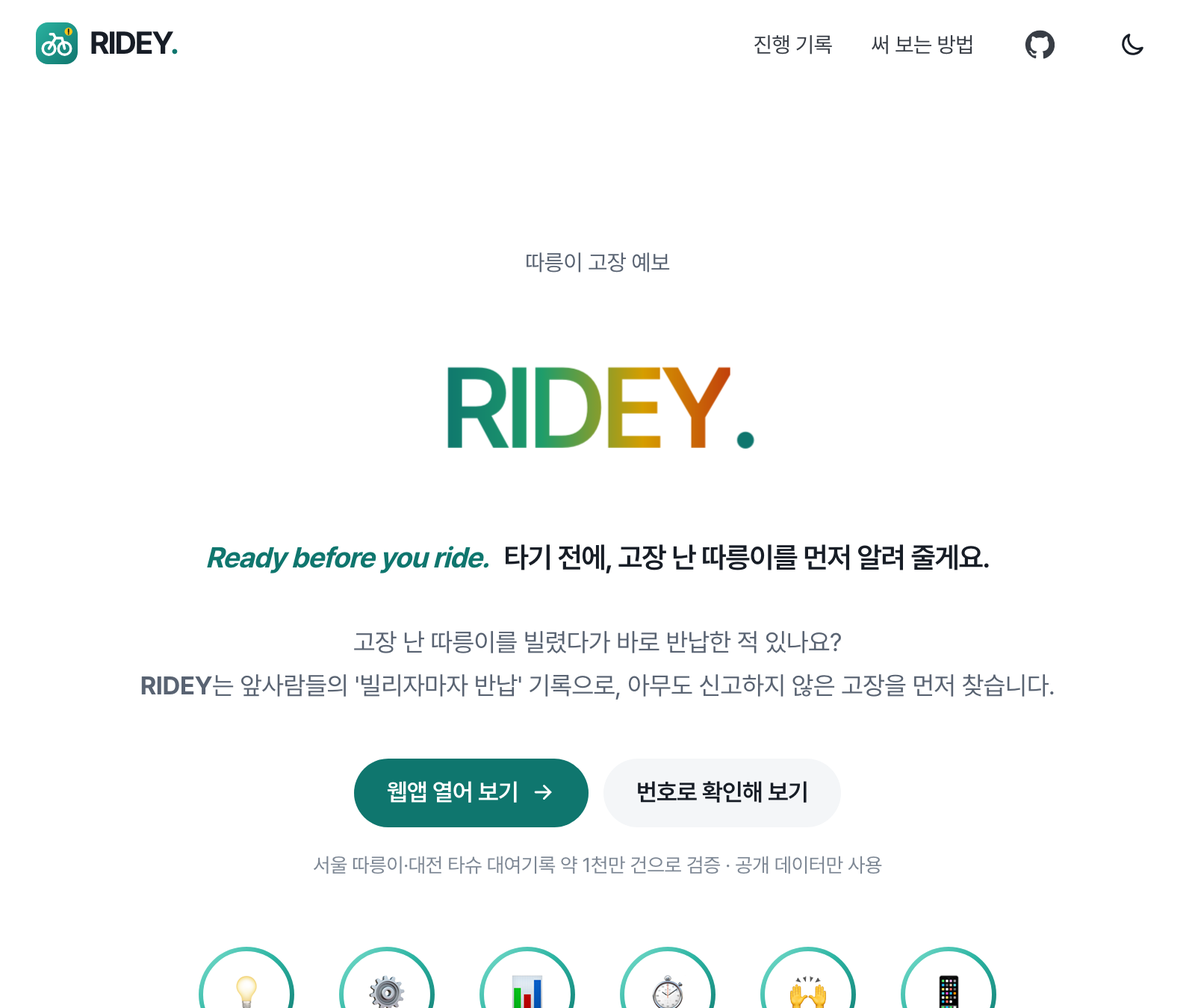
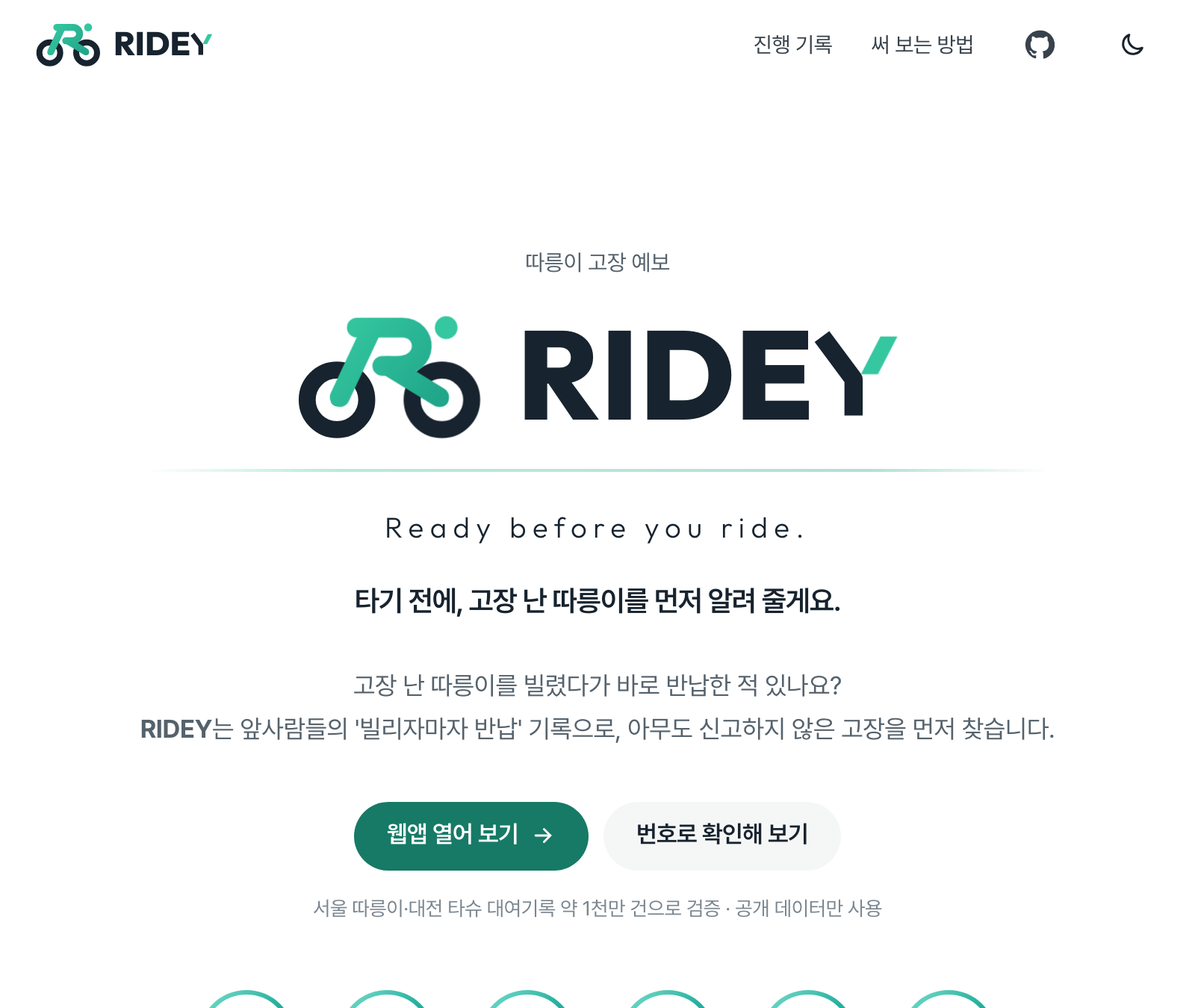
사이트를 로고 초안에 맞춤: 색(민트 #35C7A0·청록 #20A68A·남색 #17232E, 글자·단추는 대비 위해 #167A66), 글꼴 Outfit(영어)+Pretendard(한글), 자전거 R 마크·RIDEY 글자(Y 의 민트 체크) 로고, 어두운 화면은 흰 바퀴. 첫 화면: 자전거가 달려와 서고 그 힘에 R·I·D·E·Y 가 튀어나와 자리 잡고 체크가 그어진 뒤 'Ready before you ride.' 타자

diff --git a/site/index.html b/site/index.html
@@ -8,16 +8,18 @@
 <meta property="og:title" content="RIDEY — Ready before you ride">
 <meta property="og:url" content="https://zmflm0110.github.io/ridey/">
 <meta property="og:description" content="앞사람들의 '빌리자마자 반납' 기록으로, 신고되지 않은 고장 자전거를 실시간으로 찾습니다.">
-<meta name="theme-color" content="#ffffff">
-<link rel="icon" href="app/icon.svg" type="image/svg+xml">
+<meta name="theme-color" content="#F5F7F6">
+<link rel="icon" href="img/mark.svg" type="image/svg+xml">
 <link rel="stylesheet" href="https://cdn.jsdelivr.net/gh/orioncactus/pretendard/dist/web/variable/pretendardvariable-dynamic-subset.css">
+<link rel="preconnect" href="https://fonts.googleapis.com"><link rel="preconnect" href="https://fonts.gstatic.com" crossorigin>
+<link rel="stylesheet" href="https://fonts.googleapis.com/css2?family=Outfit:wght@300;400;600;800&display=swap">
 <link rel="stylesheet" href="style.css">
 </head>
 <body>
 
 <header class="top" id="top">
   <div class="wrap">
-    <a class="logo" href="./" aria-label="RIDEY 처음으로"><img src="app/icon.svg" alt="" width="28" height="28"><span>RIDEY<i>.</i></span></a>
+    <a class="logo" href="./" aria-label="RIDEY 처음으로"><svg class="mark-sm" viewBox="0 0 132 92" aria-hidden="true"><defs><linearGradient id="rgHead" gradientUnits="userSpaceOnUse" x1="34" y1="8" x2="100" y2="64"><stop offset="0" stop-color="#35C7A0"/><stop offset="1" stop-color="#20A68A"/></linearGradient></defs><g class="wheel wheel-back"><circle class="ring" cx="28" cy="64" r="21" fill="none" stroke="#17232E" stroke-width="12"/><circle cx="28" cy="64" r="4.5" fill="#20A68A"/></g><g class="wheel wheel-front"><circle class="ring" cx="102" cy="64" r="21" fill="none" stroke="#17232E" stroke-width="12"/><circle cx="102" cy="64" r="4.5" fill="#20A68A"/></g><g class="rider" fill="none" stroke="url(#rgHead)" stroke-linecap="round" stroke-linejoin="round" stroke-width="14"><path d="M42 13 H74 C92 13 94 40 70 40 H60"/><path d="M52 15 L30 62"/><path d="M64 40 L100 62"/></g><circle class="head" cx="105" cy="13" r="8" fill="#35C7A0"/></svg><span class="wordmark">RIDE<svg class="ly" viewBox="0 0 66 70" aria-hidden="true"><path d="M4 3 L30 38 V68" fill="none" stroke="currentColor" stroke-width="15" stroke-linejoin="round"/><path class="tick" d="M36 34 L50 34 L66 3 L52 3 Z" fill="#35C7A0"/></svg></span></a>
     <nav class="links" aria-label="주요 메뉴">
       <a href="#why" class="hide-sm">왜 만들었나</a>
       <a href="#results" class="hide-sm">검증 결과</a>
@@ -37,11 +39,28 @@
   <section class="hero">
     <div class="wrap">
       <p class="eyebrow">따릉이 고장 예보</p>
-      <h1 class="brand" id="brand" aria-label="빌리기 전에, 준비. Ready before you ride. RIDEY." title="다시 보기">
-        <span class="lines" aria-hidden="true"><span class="l1" id="l1"></span><br><span class="l2" id="l2"></span><span class="caret" id="caret"></span></span>
-        <span class="ridey" id="ridey" lang="en" aria-hidden="true"></span>
+      <h1 class="brand" id="brand" aria-label="RIDEY — Ready before you ride." title="다시 보기">
+        <span class="lockup" aria-hidden="true">
+          <span class="speed" id="speed"><i></i><i></i><i></i></span>
+          <svg class="mark" id="mark" viewBox="0 0 132 92" aria-hidden="true">
+  <defs>
+    <linearGradient id="rgHero" gradientUnits="userSpaceOnUse" x1="34" y1="8" x2="100" y2="64"><stop offset="0" stop-color="#35C7A0"/><stop offset="1" stop-color="#20A68A"/></linearGradient>
+  </defs>
+  <g class="wheel wheel-back"><circle class="ring" cx="28" cy="64" r="21" fill="none" stroke="#17232E" stroke-width="12"/><circle cx="28" cy="64" r="4.5" fill="#20A68A"/><circle class="spin" cx="28" cy="64" r="21" fill="none" stroke="#35C7A0" stroke-width="3" stroke-dasharray="6 10"/></g>
+  <g class="wheel wheel-front"><circle class="ring" cx="102" cy="64" r="21" fill="none" stroke="#17232E" stroke-width="12"/><circle cx="102" cy="64" r="4.5" fill="#20A68A"/><circle class="spin" cx="102" cy="64" r="21" fill="none" stroke="#35C7A0" stroke-width="3" stroke-dasharray="6 10"/></g>
+  <g class="rider" fill="none" stroke="url(#rgHero)" stroke-linecap="round" stroke-linejoin="round" stroke-width="14">
+    <path d="M42 13 H74 C92 13 94 40 70 40 H60"/>
+    <path d="M52 15 L30 62"/>
+    <path d="M64 40 L100 62"/>
+  </g>
+  <circle class="head" cx="105" cy="13" r="8" fill="#35C7A0"/>
+</svg>
+          <span class="word" id="word"><span class="lt">R</span><span class="lt">I</span><span class="lt">D</span><span class="lt">E</span><span class="lt"><svg class="ly" viewBox="0 0 66 70" aria-hidden="true"><path d="M4 3 L30 38 V68" fill="none" stroke="currentColor" stroke-width="15" stroke-linejoin="round"/><path class="tick" d="M36 34 L50 34 L66 3 L52 3 Z" fill="#35C7A0"/></svg></span></span>
+        </span>
+        <span class="road" id="road" aria-hidden="true"></span>
       </h1>
-      <p class="motto-ko"><i lang="en">Ready before you ride.</i> 타기 전에, 고장 난 따릉이를 먼저 알려 줄게요.</p>
+      <p class="tagline" lang="en" aria-hidden="true"><span id="tagline"></span><span class="tcaret" id="tcaret"></span></p>
+      <p class="motto-ko">타기 전에, 고장 난 따릉이를 먼저 알려 줄게요.</p>
       <p class="lede">고장 난 따릉이를 빌렸다가 바로 반납한 적 있나요?<br><b>RIDEY</b>는 앞사람들의 '빌리자마자 반납' 기록으로, 아무도 신고하지 않은 고장을 먼저 찾습니다.</p>
       <div class="cta">
         <a class="btn primary" href="app/">웹앱 열어 보기
@@ -392,7 +411,7 @@
 
 <footer>
   <div class="wrap">
-    <a class="logo" href="#top"><img src="app/icon.svg" alt="" width="28" height="28"><span>RIDEY<i>.</i></span></a>
+    <a class="logo" href="#top"><svg class="mark-sm" viewBox="0 0 132 92" aria-hidden="true"><defs><linearGradient id="rgFoot" gradientUnits="userSpaceOnUse" x1="34" y1="8" x2="100" y2="64"><stop offset="0" stop-color="#35C7A0"/><stop offset="1" stop-color="#20A68A"/></linearGradient></defs><g class="wheel wheel-back"><circle class="ring" cx="28" cy="64" r="21" fill="none" stroke="#17232E" stroke-width="12"/><circle cx="28" cy="64" r="4.5" fill="#20A68A"/></g><g class="wheel wheel-front"><circle class="ring" cx="102" cy="64" r="21" fill="none" stroke="#17232E" stroke-width="12"/><circle cx="102" cy="64" r="4.5" fill="#20A68A"/></g><g class="rider" fill="none" stroke="url(#rgFoot)" stroke-linecap="round" stroke-linejoin="round" stroke-width="14"><path d="M42 13 H74 C92 13 94 40 70 40 H60"/><path d="M52 15 L30 62"/><path d="M64 40 L100 62"/></g><circle class="head" cx="105" cy="13" r="8" fill="#35C7A0"/></svg><span class="wordmark">RIDE<svg class="ly" viewBox="0 0 66 70" aria-hidden="true"><path d="M4 3 L30 38 V68" fill="none" stroke="currentColor" stroke-width="15" stroke-linejoin="round"/><path class="tick" d="M36 34 L50 34 L66 3 L52 3 Z" fill="#35C7A0"/></svg></span></a>
     <p>자료: 서울 열린데이터광장·공공데이터포털 (공공누리 제1유형) · 코드: <a href="https://github.com/zmflm0110/ridey">GitHub</a></p>
   </div>
 </footer>
@@ -414,95 +433,66 @@
   });
   addEventListener("scroll", () => $("#top").classList.toggle("scrolled", scrollY > 8), { passive: true });
 
-  // 첫 화면 제목 — 이름이 문장에서 나온다는 걸 보여 준다:
-  //   타자 '빌리기 전에, / 준비.' → 지우고 'READY BEFORE / YOU RIDE.' (처음부터 대문자 — 글자 모양이 도중에 바뀌지 않게)
-  //   → READY 의 R·Y 와 RIDE 의 I·D·E 만 남기고 흐려짐 → 흐린 글자는 3D 로 떨어져 나가고, I·D·E 가 R 과 Y 사이로 → RIDEY.
-  //   → 원래 무지개로 번지며 앞으로 '펑' (Web Animations API + CSS 3D, 라이브러리 없음)
+  // 첫 화면 — 로고 초안(2026-09-27)을 따라: R 모양 자전거가 달려 들어와 서고, 그 힘에 R·I·D·E·Y 가 앞으로 튀어나와 자리 잡고,
+  // Y 의 민트 체크(= 타기 전에 확인)가 그어진 뒤 'Ready before you ride.' 를 타자로. (Web Animations API, 라이브러리 없음)
   const wait = (ms) => new Promise((r) => setTimeout(r, ms));
-  const SPARK = ["#0f766e", "#1f9d6b", "#2cc5b1", "#d69e00", "#f2c14e", "#c2410c"];
   const SPRING = CSS.supports && CSS.supports("animation-timing-function", "linear(0, 1)")
     ? "linear(0, 0.013 0.6%, 0.05 1.2%, 0.2 2.5%, 0.64 5.8%, 0.92 8.4%, 1.05 10.2%, 1.1 12%, 1.12 13.9%, 1.11 15.5%, 1.07 17.9%, 1.02 21.6%, 0.99 25.3%, 0.985 28%, 0.99 31.6%, 1.003 38.8%, 1.005 45%, 1 60%, 1)"
     : "cubic-bezier(.34, 1.4, .64, 1)";
-  const L1 = $("#l1"), L2 = $("#l2"), CARET = $("#caret"), RIDEY = $("#ridey"), BOX = $("#brand");
-  function fx(cls, x, y, w, frames, opt) {
-    const e = document.createElement("i"); e.className = cls;
-    Object.assign(e.style, { left: x + "px", top: y + "px", width: w + "px", height: w + "px" });
-    BOX.appendChild(e); e.animate(frames, opt).onfinish = () => e.remove();
-  }
+  const BOX = $("#brand"), MARK = $("#mark"), WORD = $("#word"), ROAD = $("#road"), LINES = $("#speed"), TAG = $("#tagline"), TCARET = $("#tcaret");
+  const TAGLINE = "Ready before you ride.";
   function sparks(x, y, n, dist) {
     for (let i = 0; i < n; i++) {
       const d = document.createElement("i"); d.className = "spark";
-      const s = 4 + Math.random() * 8, ang = Math.random() * Math.PI * 2, r = dist * (0.35 + Math.random() * 0.9);
-      Object.assign(d.style, { left: x + "px", top: y + "px", width: s + "px", height: s + "px", background: SPARK[i % SPARK.length] });
+      const s = 4 + Math.random() * 6, ang = -Math.PI / 2 + (Math.random() - 0.5) * 2.4, r = dist * (0.4 + Math.random() * 0.8);
+      Object.assign(d.style, { left: x + "px", top: y + "px", width: s + "px", height: s + "px", background: i % 2 ? "#35C7A0" : "#20A68A" });
       BOX.appendChild(d);
-      d.animate([{ transform: "translate3d(-50%, -50%, 0) scale(1)", opacity: 1 },
-                 { transform: `translate3d(calc(-50% + ${Math.cos(ang) * r}px), calc(-50% + ${Math.sin(ang) * r}px), ${150 + Math.random() * 350}px) scale(0)`, opacity: 0 }],
-        { duration: 700 + Math.random() * 600, easing: "cubic-bezier(.12, .75, .3, 1)" }).onfinish = () => d.remove();
+      d.animate([{ transform: "translate(-50%, -50%) scale(1)", opacity: 1 }, { transform: `translate(calc(-50% + ${Math.cos(ang) * r}px), calc(-50% + ${Math.sin(ang) * r}px)) scale(0)`, opacity: 0 }],
+        { duration: 600 + Math.random() * 400, easing: "cubic-bezier(.15, .7, .3, 1)" }).onfinish = () => d.remove();
     }
   }
-  // 글자마다 한 칸 — 둘째 줄 무지개는 글자마다 나눠 칠해 따로 움직여도 이어진 색 그대로
-  function split(el, grad) {
-    const box = el.getBoundingClientRect(), text = el.textContent; el.textContent = "";
-    const out = [...text].map((ch) => { const c = document.createElement("span"); c.className = "ch"; c.textContent = ch === " " ? " " : ch; el.appendChild(c); return c; });
-    if (grad) out.forEach((c) => { const r = c.getBoundingClientRect(); Object.assign(c.style, { backgroundImage: "var(--grad)", backgroundSize: box.width + "px 100%", backgroundPosition: `${box.left - r.left}px 0` }); c.classList.add("g"); });
-    return out;
-  }
-  async function type(el, text, ms) { for (const ch of text) { el.textContent += ch; await wait(ms * (0.75 + Math.random() * 0.5)); } }
-  async function erase(el, ms) { while (el.textContent) { el.textContent = el.textContent.slice(0, -1); await wait(ms); } }
   let run = 0;
   async function brand() {
     const me = ++run, alive = () => me === run;
-    BOX.querySelectorAll(".spark, .flash, .shock").forEach((e) => e.remove());
-    BOX.getAnimations({ subtree: true }).forEach((a) => { if (a.effect && a.effect.target !== CARET) a.cancel(); });
-    L1.textContent = ""; L2.textContent = ""; RIDEY.innerHTML = ""; RIDEY.classList.remove("on"); BOX.classList.remove("done"); CARET.hidden = false;
-    const final = () => { RIDEY.innerHTML = '<span class="word">RIDEY</span><span class="dot">.</span>'; RIDEY.classList.add("on"); BOX.classList.add("done"); };
-    if (reduce) { final(); return; }
-    await wait(400);
-    await type(L1, "빌리기 전에,", 120); if (!alive()) return;
-    await type(L2, "준비.", 160); if (!alive()) return;
-    await wait(1100); if (!alive()) return;
-    await erase(L2, 55); await erase(L1, 40); if (!alive()) return;
-    await wait(250);
-    await type(L1, "READY BEFORE", 85); if (!alive()) return;
-    await type(L2, "YOU RIDE.", 110); if (!alive()) return;
-    await wait(900); if (!alive()) return;
-    CARET.hidden = true;
-    // 1) 남길 글자만 또렷하게 — READY 의 R·Y + RIDE 의 I·D·E (+ 마침표)
-    const c1 = split(L1, false), c2 = split(L2, true);
-    const keep = new Map([[c1[0], "R"], [c2[5], "I"], [c2[6], "D"], [c2[7], "E"], [c1[4], "Y"], [c2[8], "dot"]]);
-    const rest = [...c1, ...c2].filter((c) => !keep.has(c));
-    rest.forEach((c) => c.animate([{ opacity: 1 }, { opacity: 0.16 }], { duration: 450, easing: "ease", fill: "forwards" }));
-    [...keep.keys()].forEach((c) => c.animate([{ transform: "none" }, { transform: "translateY(-0.06em) scale(1.06)" }, { transform: "none" }], { duration: 600, easing: "ease-in-out" }));
-    await wait(1000); if (!alive()) return;
-    // 2) 흐린 글자는 3D 로 떨어져 나가고, 남은 글자가 R-I-D-E-Y. 자리로 (자리는 같은 크기의 'RIDEY.' 를 몰래 놓고 잰다)
-    RIDEY.innerHTML = '<span class="word">' + [..."RIDEY"].map((ch) => `<span class="rc" data-k="${ch}">${ch}</span>`).join("") + '</span><span class="dot rc" data-k="dot">.</span>';
-    const dst = Object.fromEntries([...RIDEY.querySelectorAll("[data-k]")].map((e) => [e.dataset.k, e.getBoundingClientRect()]));
-    rest.forEach((c, i) => c.animate([{ transform: "translate3d(0, 0, 0) rotateX(0)", opacity: 0.16 },
-      { transform: `translate3d(${(Math.random() - 0.5) * 120}px, ${60 + Math.random() * 90}px, ${180 + Math.random() * 380}px) rotateX(${-40 - Math.random() * 80}deg) rotateZ(${(Math.random() - 0.5) * 50}deg)`, opacity: 0 }],
-      { duration: 800 + Math.random() * 300, delay: i * 18, easing: "cubic-bezier(.3, .1, .45, 1)", fill: "forwards" }));
-    const order = ["R", "I", "D", "E", "Y", "dot"];
-    const moves = [...keep.entries()].map(([c, k]) => {
-      const a = c.getBoundingClientRect(), b = dst[k];
-      return c.animate([{ transform: "none" }, { transform: `translate(${b.left - a.left}px, ${b.top - a.top}px)` }],
-        { duration: 1000, delay: 150 + order.indexOf(k) * 60, easing: SPRING, fill: "forwards" }).finished;
+    BOX.querySelectorAll(".spark").forEach((e) => e.remove());
+    BOX.getAnimations({ subtree: true }).forEach((an) => an.cancel());
+    const letters = [...WORD.querySelectorAll(".lt")], tick = WORD.querySelector(".tick");
+    TAG.textContent = ""; TCARET.hidden = false;
+    if (reduce) { BOX.classList.add("still"); TAG.textContent = TAGLINE; TCARET.hidden = true; return; }
+    BOX.classList.add("playing");
+    // 1) 길이 그어지고
+    ROAD.animate([{ transform: "scaleX(0)", opacity: 1 }, { transform: "scaleX(1)", opacity: 1 }], { duration: 700, easing: "cubic-bezier(.3, .7, .2, 1)", fill: "forwards" });
+    letters.forEach((l) => l.animate([{ opacity: 0 }, { opacity: 0 }], { duration: 1, fill: "forwards" }));
+    tick.animate([{ opacity: 0 }, { opacity: 0 }], { duration: 1, fill: "forwards" });
+    // 2) 자전거가 왼쪽 밖에서 달려와 선다 — 바퀴 점선이 돌고, 뒤로 속도선
+    const from = -(MARK.getBoundingClientRect().right + 40);
+    const ride = MARK.animate([{ transform: `translateX(${from}px)` }, { transform: "translateX(0)" }], { duration: 1500, delay: 150, easing: "cubic-bezier(.16, .72, .22, 1)", fill: "both" });
+    MARK.querySelectorAll(".spin").forEach((c) => c.animate([{ transform: "rotate(0)", opacity: 1 }, { transform: "rotate(900deg)", opacity: 1, offset: .8 }, { transform: "rotate(960deg)", opacity: 0 }],
+      { duration: 1500, delay: 150, easing: "cubic-bezier(.16, .72, .22, 1)", fill: "both" }));
+    MARK.querySelector(".rider").animate([{ transform: "translateY(0)" }, { transform: "translateY(-2px)" }, { transform: "translateY(0)" }], { duration: 260, iterations: 5, delay: 150 });
+    LINES.animate([{ opacity: 0, transform: `translateX(${from}px) scaleX(.4)` }, { opacity: .9, transform: `translateX(${from * 0.35}px) scaleX(1)`, offset: .45 }, { opacity: 0, transform: "translateX(0) scaleX(.2)" }],
+      { duration: 1500, delay: 150, easing: "cubic-bezier(.16, .72, .22, 1)", fill: "both" });
+    await ride.finished; if (!alive()) return;
+    // 3) 브레이크 — 살짝 앞으로 숙였다 돌아오며, 그 힘에 글자가 앞으로 튀어나간다
+    MARK.animate([{ transform: "rotate(0)" }, { transform: "rotate(5deg) translateX(4px)" }, { transform: "rotate(0)" }], { duration: 420, easing: "cubic-bezier(.3, .7, .3, 1)" });
+    const mr = MARK.getBoundingClientRect();
+    const flights = letters.map((l, i) => {
+      const r = l.getBoundingClientRect(), dx = mr.right - r.left - r.width * 0.3;
+      return l.animate([{ transform: `translateX(${dx}px) scale(.45) skewX(-18deg)`, opacity: 0 }, { opacity: 1, offset: .25 }, { transform: "translateX(0) scale(1) skewX(0)", opacity: 1 }],
+        { duration: 820, delay: 60 + i * 85, easing: SPRING, fill: "both" }).finished;
     });
-    await Promise.all(moves); if (!alive()) return;
-    // 3) 모인 글자 위로 같은 모양의 'RIDEY.' (무지개 한 줄)이 번져 올라오고 — 글자 모양은 그대로, 색만 이어짐
-    RIDEY.classList.add("on");
-    RIDEY.querySelector(".word").animate([{ opacity: 0 }, { opacity: 1 }], { duration: 380, easing: "ease", fill: "forwards" });
-    [...keep.keys()].forEach((c) => c.animate([{ opacity: 1 }, { opacity: 0 }], { duration: 380, easing: "ease", fill: "forwards" }));
-    await wait(380); if (!alive()) return;
-    BOX.classList.add("done");
-    // 4) 펑 — 앞으로 튀어나왔다가 조금 더 크게 자리 잡기
-    const bx = BOX.getBoundingClientRect(), rr = RIDEY.getBoundingClientRect();
-    const x = rr.left + rr.width / 2 - bx.left, y = rr.top + rr.height / 2 - bx.top;
-    fx("flash", x, y, Math.max(rr.width * 1.5, 360), [{ transform: "translate(-50%, -50%) scale(.2)", opacity: 0 }, { transform: "translate(-50%, -50%) scale(.7)", opacity: .75, offset: .3 }, { transform: "translate(-50%, -50%) scale(1)", opacity: 0 }], { duration: 600, easing: "ease-out" });
-    fx("shock", x, y, Math.max(bx.width, 520), [{ transform: "translate(-50%, -50%) scale(.1)", opacity: .8 }, { transform: "translate(-50%, -50%) scale(1)", opacity: 0 }], { duration: 850, easing: "cubic-bezier(.1, .7, .3, 1)" });
-    sparks(x, y, 44, Math.max(rr.width * 0.9, 240));
-    RIDEY.animate([{ transform: "translate(-50%, -50%) translateZ(0) scale(1)" },
-                   { transform: "translate(-50%, -50%) translateZ(220px) scale(1.08)", offset: .38 },
-                   { transform: "translate(-50%, -50%) translateZ(0) scale(1.32)" }],
-      { duration: 900, easing: "cubic-bezier(.2, .8, .2, 1)", fill: "forwards" });
+    await Promise.all(flights); if (!alive()) return;
+    // 4) Y 의 체크 — 타기 전에 확인 끝
+    const tr = tick.getBoundingClientRect(), bx = BOX.getBoundingClientRect();
+    await tick.animate([{ opacity: 0, transform: "translate(-6px, 8px) scale(.4)" }, { opacity: 1, transform: "translate(1px, -1px) scale(1.15)", offset: .6 }, { opacity: 1, transform: "none" }],
+      { duration: 420, easing: "cubic-bezier(.2, .8, .2, 1)", fill: "both" }).finished;
+    if (!alive()) return;
+    sparks(tr.left + tr.width / 2 - bx.left, tr.top + tr.height / 2 - bx.top, 14, 60);
+    ROAD.animate([{ opacity: 1 }, { opacity: .35 }], { duration: 600, fill: "forwards" });
+    // 5) 한 줄 — 타자로
+    await wait(250);
+    for (const ch of TAGLINE) { if (!alive()) return; TAG.textContent += ch; await wait(42 + Math.random() * 40); }
+    await wait(1800); if (alive()) TCARET.hidden = true;
   }
   brand();
   $("#brand").addEventListener("click", brand);

diff --git a/site/style.css b/site/style.css
@@ -1,31 +1,33 @@
 :root {
-  --canvas: #ffffff; --surface: #f4f6f8; --surface-2: #eceff3; --ink: #171d26; --muted: #596372; --faint: #7d8794; --line: #dce1e7;
-  --accent: #0f766e; --accent-hover: #0b5f58; --on-accent: #ffffff; --accent-soft: #e1f2ef; --focus: #8fd3c9;
+  --canvas: #ffffff; --surface: #F5F7F6; --surface-2: #eaefed; --ink: #17232E; --muted: #55626c; --faint: #7a8690; --line: #dbe3e0;
+  --accent: #167A66; --accent-hover: #11604f; --on-accent: #ffffff; --accent-soft: #e0f3ec; --focus: #35C7A0;
+  --mint: #35C7A0; --teal: #20A68A; --navy: #17232E;   /* 로고 색 (그림에만 — 글자·단추는 대비 때문에 한 단계 진한 --accent) */
+  --font-brand: "Outfit", "Pretendard Variable", Pretendard, -apple-system, system-ui, sans-serif;
   --red: #c2410c; --red-soft: #fcebe3; --yellow: #a16207; --yellow-dot: #e0a000; --good: #237032; --good-soft: #e3f3e6;
   --dot: rgba(89, 99, 114, .28); --shadow: 0 1px 2px rgba(23, 29, 38, .04), 0 8px 24px rgba(23, 29, 38, .06);
   --band: linear-gradient(180deg, #eef7f5 0%, #f6f8fb 100%);
-  --grad: linear-gradient(90deg, #0f766e 0%, #1f9d6b 35%, #d69e00 70%, #c2410c 100%);
+  --grad: linear-gradient(90deg, #20A68A 0%, #35C7A0 100%);
   --radius: 24px; --header: 60px; --wrap: 1180px; --block: 136px;
   color-scheme: light;
 }
 @media (prefers-color-scheme: dark) {
   :root:not([data-theme="light"]) {
-    --canvas: #0d1014; --surface: #161a20; --surface-2: #1d232b; --ink: #e8ecf1; --muted: #a3adba; --faint: #7f8a98; --line: #2a3139;
-    --accent: #2cc5b1; --accent-hover: #5eead4; --on-accent: #06201d; --accent-soft: #12302c; --focus: #2cc5b1;
+    --canvas: #0B1320; --surface: #121c2a; --surface-2: #182434; --ink: #F5F7F6; --muted: #a6b1bb; --faint: #7f8b96; --line: #24313f;
+    --accent: #35C7A0; --accent-hover: #5fd9b8; --on-accent: #0B1320; --accent-soft: #123229; --focus: #35C7A0;
     --red: #fb8b5d; --red-soft: #3a1f15; --yellow: #f2c14e; --yellow-dot: #f2c14e; --good: #6fd08c; --good-soft: #15301d;
     --dot: rgba(163, 173, 186, .30); --shadow: 0 1px 2px rgba(0, 0, 0, .3), 0 8px 24px rgba(0, 0, 0, .35);
     --band: linear-gradient(180deg, #11231f 0%, #141920 100%);
-    --grad: linear-gradient(90deg, #2cc5b1 0%, #6fd08c 35%, #f2c14e 70%, #fb8b5d 100%);
+    --grad: linear-gradient(90deg, #35C7A0 0%, #5fd9b8 100%);
     color-scheme: dark;
   }
 }
 :root[data-theme="dark"] {
-  --canvas: #0d1014; --surface: #161a20; --surface-2: #1d232b; --ink: #e8ecf1; --muted: #a3adba; --faint: #7f8a98; --line: #2a3139;
-  --accent: #2cc5b1; --accent-hover: #5eead4; --on-accent: #06201d; --accent-soft: #12302c; --focus: #2cc5b1;
+  --canvas: #0B1320; --surface: #121c2a; --surface-2: #182434; --ink: #F5F7F6; --muted: #a6b1bb; --faint: #7f8b96; --line: #24313f;
+  --accent: #35C7A0; --accent-hover: #5fd9b8; --on-accent: #0B1320; --accent-soft: #123229; --focus: #35C7A0;
   --red: #fb8b5d; --red-soft: #3a1f15; --yellow: #f2c14e; --yellow-dot: #f2c14e; --good: #6fd08c; --good-soft: #15301d;
   --dot: rgba(163, 173, 186, .30); --shadow: 0 1px 2px rgba(0, 0, 0, .3), 0 8px 24px rgba(0, 0, 0, .35);
   --band: linear-gradient(180deg, #11231f 0%, #141920 100%);
-  --grad: linear-gradient(90deg, #2cc5b1 0%, #6fd08c 35%, #f2c14e 70%, #fb8b5d 100%);
+  --grad: linear-gradient(90deg, #35C7A0 0%, #5fd9b8 100%);
   color-scheme: dark;
 }
 * { box-sizing: border-box; }
@@ -48,23 +50,29 @@ header.top .wrap { height: 100%; display: flex; align-items: center; justify-con
 .logo { font-weight: 700; font-size: 21px; letter-spacing: -0.05em; text-decoration: none; white-space: nowrap; }
 .logo i { color: var(--accent); font-style: normal; }
 .logo { display: inline-flex; align-items: center; gap: 8px; }
-.logo img { width: 28px; height: 28px; border-radius: 8px; display: block; }
-/* 첫 화면 제목 — 원래 모양(두 줄, 둘째 줄 무지개, 깜빡이는 커서)에 타자 → 펑(3D) → RIDEY. (index.html brand()) */
-.brand { position: relative; perspective: 900px; perspective-origin: 50% 50%; min-height: calc(2 * 1.16em); cursor: pointer; }
-.brand .lines { display: inline-block; transform-style: preserve-3d; }
-.brand .l2 { background: var(--grad); -webkit-background-clip: text; background-clip: text; color: transparent; }
-.brand .caret { display: inline-block; width: .06em; height: .9em; margin-left: .04em; vertical-align: -0.08em; background: var(--accent); animation: blink 1s steps(1) infinite; }
-.brand .caret[hidden] { display: none; }
-.brand .ch { display: inline-block; will-change: transform, opacity; }
-.brand .ch.g { -webkit-background-clip: text; background-clip: text; color: transparent; }
-.brand .ridey { position: absolute; left: 50%; top: 50%; transform: translate(-50%, -50%); white-space: nowrap; transform-style: preserve-3d; opacity: 0; pointer-events: none; }
-.brand .ridey.on { opacity: 1; }
-.brand .ridey .word { background: var(--grad); -webkit-background-clip: text; background-clip: text; color: transparent; }   /* 둘째 줄과 같은 무지개 */
-.brand .ridey .rc { display: inline-block; }
-.brand .ridey .dot { color: var(--accent); }
-.brand.done .ridey .word { opacity: 1; }
-.brand.done .lines { visibility: hidden; }
-.brand .ridey:not(.on) .word { opacity: 0; }
+.logo .mark-sm { width: 44px; height: auto; display: block; }
+.logo .wordmark { font-family: var(--font-brand); font-weight: 800; font-size: 22px; letter-spacing: 0; display: inline-flex; align-items: baseline; color: var(--navy); }
+/* 첫 화면 — 로고(자전거 R + RIDEY, Y 의 민트 체크)가 달려 들어와 만들어진다 (index.html brand()) */
+.mark .ring, .mark-sm .ring { stroke: var(--wheel, #17232E); }
+:root[data-theme="dark"] { --wheel: #F5F7F6; }
+@media (prefers-color-scheme: dark) { :root:not([data-theme="light"]) { --wheel: #F5F7F6; } }
+.brand { position: relative; margin: 8px auto 0; cursor: pointer; font-family: var(--font-brand); font-size: clamp(54px, 10.5vw, 128px); line-height: 1; letter-spacing: 0; }
+.brand .lockup { position: relative; display: inline-flex; align-items: center; gap: .26em; }
+.brand .mark { height: 1.04em; width: auto; overflow: visible; transform-origin: 30% 90%; }
+.brand .mark .spin { transform-box: fill-box; transform-origin: center; opacity: 0; }
+.brand .word { display: inline-flex; align-items: baseline; font-weight: 800; color: var(--navy); }
+:root[data-theme="dark"] .brand .word, :root[data-theme="dark"] .logo .wordmark { color: #F5F7F6; }
+@media (prefers-color-scheme: dark) { :root:not([data-theme="light"]) .brand .word, :root:not([data-theme="light"]) .logo .wordmark { color: #F5F7F6; } }
+.brand .lt { display: inline-block; }
+.brand .ly, .logo .ly { height: .7em; width: .64em; margin-left: .03em; overflow: visible; }
+.brand .ly .tick { transform-box: fill-box; transform-origin: center; }
+.brand .speed { position: absolute; left: -1.1em; top: 18%; width: 1em; height: 60%; display: flex; flex-direction: column; justify-content: space-around; opacity: 0; pointer-events: none; }
+.brand .speed i { display: block; height: max(3px, .045em); border-radius: 99px; background: linear-gradient(90deg, transparent, var(--mint)); }
+.brand .speed i:nth-child(2) { margin-left: .3em; } .brand .speed i:nth-child(3) { margin-left: .12em; }
+.brand .road { display: block; height: max(2px, .02em); width: min(100%, 7.2em); margin: .1em auto 0; border-radius: 99px; background: linear-gradient(90deg, transparent, var(--mint) 20%, var(--teal) 80%, transparent); transform-origin: left center; opacity: .35; }
+.tagline { margin: 22px 0 0; font-family: var(--font-brand); font-weight: 300; font-size: clamp(18px, 2.4vw, 28px); letter-spacing: .22em; color: var(--ink); min-height: 1.4em; }
+.tagline .tcaret { display: inline-block; width: 2px; height: 1.05em; margin-left: 2px; vertical-align: -0.16em; background: var(--accent); animation: blink 1s steps(1) infinite; }
+.tagline .tcaret[hidden] { display: none; }
 .brand .spark { position: absolute; border-radius: 50%; pointer-events: none; z-index: 2; }
 .brand .flash { position: absolute; border-radius: 50%; pointer-events: none; opacity: 0; z-index: 1;
   background: radial-gradient(circle, color-mix(in srgb, #fff 90%, var(--accent)) 0%, color-mix(in srgb, var(--accent) 45%, transparent) 38%, transparent 70%); }
@@ -94,6 +102,7 @@ nav.links a:hover { opacity: 1; color: var(--accent); }
 .hero { text-align: center; padding: 104px 0 0; }
 .eyebrow { font-size: 15px; color: var(--muted); margin: 0 0 18px; }
 h1 { font-size: clamp(42px, 7.2vw, 78px); line-height: 1.16; font-weight: 580; letter-spacing: -0.055em; margin: 0; }
+h1, h2 { font-family: var(--font-brand); }   /* 영어는 로고와 같은 Outfit, 한글은 Pretendard 로 이어짐 */
 h1 .type { background: var(--grad); -webkit-background-clip: text; background-clip: text; color: transparent; }
 h1 .caret { display: inline-block; width: .06em; height: .9em; margin-left: .04em; vertical-align: -0.08em; background: var(--accent); animation: blink 1s steps(1) infinite; }
 @keyframes blink { 50% { opacity: 0; } }

diff --git a/site/releases.html b/site/releases.html
@@ -3,20 +3,22 @@
 <head>
 <meta charset="utf-8">
 <meta name="viewport" content="width=device-width, initial-scale=1">
-<title>RIDEY — Ready before you ride · 타기 전에, 고장 난 따릉이를 먼저 알려 줍니다</title>
+<title>진행 기록 — RIDEY</title>
 <meta name="description" content="서로 다른 두 사람이 연달아 빌리자마자 반납한 따릉이는 다음 사람도 3명 중 1명이 포기합니다. 공개 대여기록만으로, 아무도 신고하지 않은 고장 자전거를 실시간으로 찾습니다.">
 <meta property="og:title" content="RIDEY — Ready before you ride">
 <meta property="og:url" content="https://zmflm0110.github.io/ridey/">
 <meta property="og:description" content="앞사람들의 '빌리자마자 반납' 기록으로, 신고되지 않은 고장 자전거를 실시간으로 찾습니다.">
-<meta name="theme-color" content="#ffffff">
-<link rel="icon" href="app/icon.svg" type="image/svg+xml">
+<meta name="theme-color" content="#F5F7F6">
+<link rel="icon" href="img/mark.svg" type="image/svg+xml">
 <link rel="stylesheet" href="https://cdn.jsdelivr.net/gh/orioncactus/pretendard/dist/web/variable/pretendardvariable-dynamic-subset.css">
+<link rel="preconnect" href="https://fonts.googleapis.com"><link rel="preconnect" href="https://fonts.gstatic.com" crossorigin>
+<link rel="stylesheet" href="https://fonts.googleapis.com/css2?family=Outfit:wght@300;400;600;800&display=swap">
 <link rel="stylesheet" href="style.css">
 </head>
 <body>
 <header class="top" id="top">
   <div class="wrap">
-    <a class="logo" href="./" aria-label="RIDEY 처음으로"><img src="app/icon.svg" alt="" width="28" height="28"><span>RIDEY<i>.</i></span></a>
+    <a class="logo" href="./" aria-label="RIDEY 처음으로"><svg class="mark-sm" viewBox="0 0 132 92" aria-hidden="true"><defs><linearGradient id="rgHead" gradientUnits="userSpaceOnUse" x1="34" y1="8" x2="100" y2="64"><stop offset="0" stop-color="#35C7A0"/><stop offset="1" stop-color="#20A68A"/></linearGradient></defs><g class="wheel wheel-back"><circle class="ring" cx="28" cy="64" r="21" fill="none" stroke="#17232E" stroke-width="12"/><circle cx="28" cy="64" r="4.5" fill="#20A68A"/></g><g class="wheel wheel-front"><circle class="ring" cx="102" cy="64" r="21" fill="none" stroke="#17232E" stroke-width="12"/><circle cx="102" cy="64" r="4.5" fill="#20A68A"/></g><g class="rider" fill="none" stroke="url(#rgHead)" stroke-linecap="round" stroke-linejoin="round" stroke-width="14"><path d="M42 13 H74 C92 13 94 40 70 40 H60"/><path d="M52 15 L30 62"/><path d="M64 40 L100 62"/></g><circle class="head" cx="105" cy="13" r="8" fill="#35C7A0"/></svg><span class="wordmark">RIDE<svg class="ly" viewBox="0 0 66 70" aria-hidden="true"><path d="M4 3 L30 38 V68" fill="none" stroke="currentColor" stroke-width="15" stroke-linejoin="round"/><path class="tick" d="M36 34 L50 34 L66 3 L52 3 Z" fill="#35C7A0"/></svg></span></a>
     <nav class="links" aria-label="주요 메뉴">
       <a href="#why" class="hide-sm">왜 만들었나</a>
       <a href="./#results" class="hide-sm">검증 결과</a>
@@ -149,7 +151,7 @@
 </main>
 <footer>
   <div class="wrap">
-    <a class="logo" href="#top"><img src="app/icon.svg" alt="" width="28" height="28"><span>RIDEY<i>.</i></span></a>
+    <a class="logo" href="#top"><svg class="mark-sm" viewBox="0 0 132 92" aria-hidden="true"><defs><linearGradient id="rgFoot" gradientUnits="userSpaceOnUse" x1="34" y1="8" x2="100" y2="64"><stop offset="0" stop-color="#35C7A0"/><stop offset="1" stop-color="#20A68A"/></linearGradient></defs><g class="wheel wheel-back"><circle class="ring" cx="28" cy="64" r="21" fill="none" stroke="#17232E" stroke-width="12"/><circle cx="28" cy="64" r="4.5" fill="#20A68A"/></g><g class="wheel wheel-front"><circle class="ring" cx="102" cy="64" r="21" fill="none" stroke="#17232E" stroke-width="12"/><circle cx="102" cy="64" r="4.5" fill="#20A68A"/></g><g class="rider" fill="none" stroke="url(#rgFoot)" stroke-linecap="round" stroke-linejoin="round" stroke-width="14"><path d="M42 13 H74 C92 13 94 40 70 40 H60"/><path d="M52 15 L30 62"/><path d="M64 40 L100 62"/></g><circle class="head" cx="105" cy="13" r="8" fill="#35C7A0"/></svg><span class="wordmark">RIDE<svg class="ly" viewBox="0 0 66 70" aria-hidden="true"><path d="M4 3 L30 38 V68" fill="none" stroke="currentColor" stroke-width="15" stroke-linejoin="round"/><path class="tick" d="M36 34 L50 34 L66 3 L52 3 Z" fill="#35C7A0"/></svg></span></a>
     <p>자료: 서울 열린데이터광장·공공데이터포털 (공공누리 제1유형) · 코드: <a href="https://github.com/zmflm0110/ridey">GitHub</a></p>
   </div>
 </footer>

diff --git a/tools/build_site.py b/tools/build_site.py
@@ -53,7 +53,7 @@ def releases():
     if in_list:
         body.append("</ul>")
     idx = (S / "index.html").read_text()
-    head = idx[:idx.index("</head>")].replace("<title>RIDEY — 빌리기 전에, 고장 난 따릉이를 먼저 알려 줍니다</title>", "<title>진행 기록 — RIDEY</title>")
+    head = re.sub(r"<title>.*?</title>", "<title>진행 기록 — RIDEY</title>", idx[:idx.index("</head>")], count=1)   # 제목이 바뀌어도 늘 맞게
     header = idx[idx.index('<header class="top"'):idx.index("</header>") + len("</header>")].replace('href="#results"', 'href="./#results"').replace('href="#start"', 'href="./#start"')
     footer = idx[idx.index("<footer>"):idx.index("</footer>") + len("</footer>")]
     theme = """<script>
